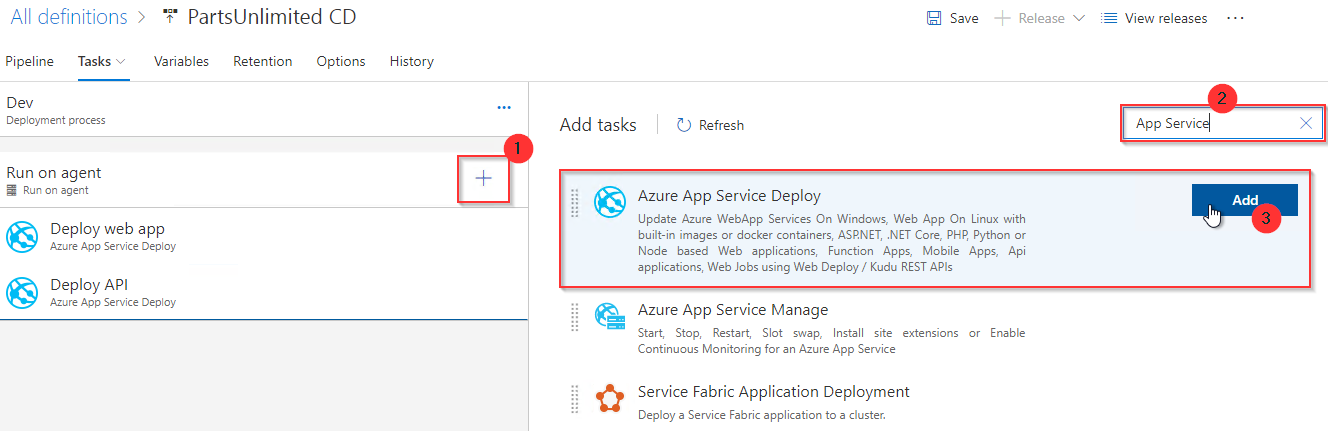
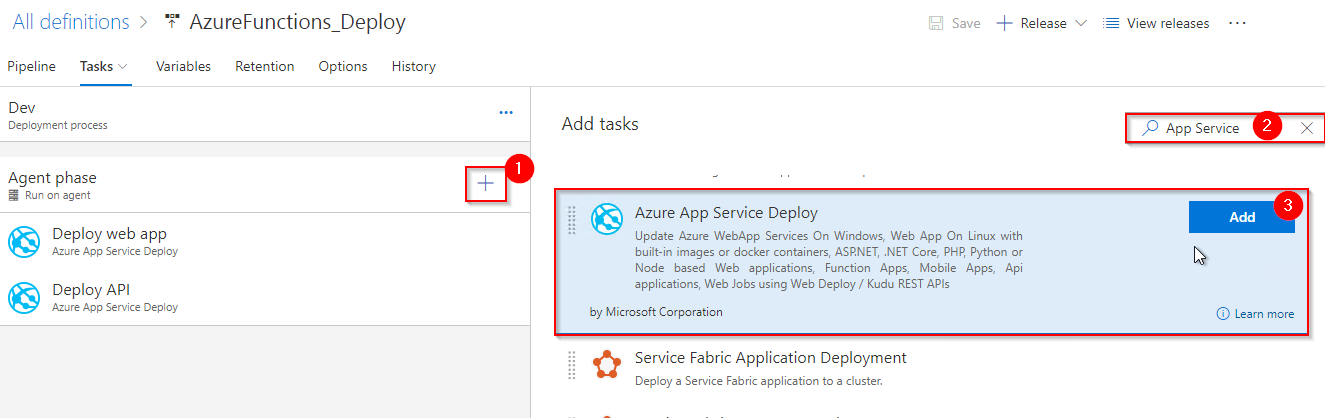
modified content

diff --git a/readme.md b/readme.md
@@ -37,35 +37,37 @@ Azure Functions is an event driven, compute-on-demand experience that extends th
 
     You should treat Personal Access Tokens like passwords. It is recommended that you save them somewhere safe so that you can re-use them for future requests.
 
-1. Visual Studio 2015 Update 3 or later with [.Net Core SDK](https://www.microsoft.com/net/learn/get-started/windows#windows) installed.
+1. Visual Studio 2017 version 15.4 or later  with [.Net Core SDK](https://www.microsoft.com/net/learn/get-started/windows#windows) and [Azure Development Tools for Visual Studio](https://docs.microsoft.com/en-us/azure/azure-functions/functions-develop-vs) are installed.
 
 ## Setting up the Environment
 
-1. Click **Deploy To Azure** to provision a Windows Server 2016 virtual machine along with SQL Express 2017 and browsers - Chrome and FireFox.
+1. Click **Deploy To Azure** to provision a Azure appservice plan and two web apps.
 
-   [![Deploy to Azure](http://azuredeploy.net/deploybutton.png)](https://portal.azure.com/#create/Microsoft.Template/uri/https%3A%2F%2Fraw.githubusercontent.com%2FMicrosoft%2FVSTS-DevOps-Labs%2Fmaster%2Farmtemplates%2Fselenium%2Fazuredeploy.json)
+   [![Deploy to Azure](http://azuredeploy.net/deploybutton.png)](https://portal.azure.com/#create/Microsoft.Template/uri/https%3A%2F%2Fraw.githubusercontent.com%2Fsriramdasbalaji%2FAzureFunctions%2Fmaster%2Farm%2520template%2Fazuredeploy.json)
 
 1. It should take approximately 5-10 minutes to provision the resources. Once the deployment is successful, you will see the resources as shown.
 
    ![azure_resources](images/azure_resources.png)
 
+
 ## Setting up the VSTS team project
 
-1. Use the [VSTS Demo Generator](https://vstsdemogenerator.azurewebsites.net/?Name=Selenium&TemplateId=77367) to provision the project on your VSTS account.
+1. Use the [VSTS Demo Generator](https://vstsdemobuildertest.azurewebsites.net/) to provision the project on your VSTS account.
 
    > **VSTS Demo Generator** helps you create team projects on your VSTS account with sample content that include source code, work items,iterations, service endpoints, build and release definitions based on the template you choose during the configuration.
 
    ![VSTSDemogenerator](images/VSTSDemogenerator.png)
 
-    {% include note.html content= "This URL will automatically select **AzureFunctions** template in the demo generator. If you want to try other projects, use this URL instead -[https://vstsdemogenerator.azurewebsites.net/](https://vstsdemogenerator.azurewebsites.net/)
+    This URL will automatically select **AzureFunctions** template in the demo generator. If you want to try other projects, use this URL instead -[https://vstsdemogenerator.azurewebsites.net/](https://vstsdemogenerator.azurewebsites.net/)
 
 1. Once the project is provisioned, click the URL to navigate to the project.
 
    ![VSTSDemogenerator2](images/VSTSDemogenerator2.png)
 
+
 ## Exercise 1: Cloning an existing repository
 
-1. Sign in to your **Visual Studio Team Services** account and browse to **PartsUnlimited** project.
+1. Sign in to your **Visual Studio Team Services** account and browse to **AzureFunctions** project (project provisioned by VSTS Demo generator).
 
    ![browsevstsproject](images/browsevstsproject.png)
 
@@ -75,11 +77,11 @@ Azure Functions is an event driven, compute-on-demand experience that extends th
 
 3. You might be prompted to sign into to your account from Visual Studio. Sign in to your account
 
-4. Set the local path where you want the local repository to be placed and select Clone.
+4. Set the local path where you want the local repository to be placed and select **Clone**.
 
      ![clonepath](images/clonepath.png)
 
-5. Select Show Folder View under Solutions to see all the solutions in the local git folder and double click on **PartsUnlimited.sln** to open the project.
+5. In Team Explorer under **Solutions** you will see all the solutions in the local git folder and double click on **PartsUnlimited.sln** to open the project.
 
      ![openproject](images/opensolution.png)
 
@@ -105,7 +107,7 @@ Azure Functions is an event driven, compute-on-demand experience that extends th
 
     ![addreference](images/addreference.png)
 
-6.  Define the original API. Right click on **Controllers** folder, click on **Add**, then **Class**.
+6.  Define the original API. Right click on **Controllers** folder, click on **Add**, then select **Class**.
    ![addspecialcontroller](images/addspecialcontroller.png)
 
 7. Enter **SpecialsController.cs** as the name of this class and click on **Add**.
@@ -181,7 +183,7 @@ namespace PartsUnlimited.API.Controllers
 ```
 
 9. Define an API with a new feature.
-Similarly create a new class, name it **V2SpecialsController.cs** and copy the following code into it:
+Similarly create a new class under Controllers, name it **V2SpecialsController.cs** and copy the following code into it:
 
 ```csharp
 using System.Collections.Generic;
@@ -204,7 +206,6 @@ namespace PartsUnlimited.API.Controllers
                     Title = "Filter Set V2",
                     CategoryId = 5,
                     Price = 28.99M,
-                    DiscountedPrice=25.99M,
                     Discount="30%",
                     SalePrice = 28.99M,
                     ProductArtUrl = "https://raw.githubusercontent.com/Microsoft/PartsUnlimited/master/src/PartsUnlimitedWebsite/images/product_oil_filters.jpg",
@@ -221,7 +222,6 @@ namespace PartsUnlimited.API.Controllers
                     CategoryId = 5,
                     Price = 34.49M,
                     SalePrice = 34.49M,
-                    DiscountedPrice=31.49M,
                     Discount="30%",
                     ProductArtUrl = "https://raw.githubusercontent.com/Microsoft/PartsUnlimited/master/src/PartsUnlimitedWebsite/images/product_oil_oil-filter-combo.jpg",
                     ProductDetails = "{ \"Filter Type\" : \"Canister\", \"Thread Size\" : \"0.75-16 in.\", \"Anti-Drainback Valve\" : \"Yes\", \"Size\" : \"1.1 gal.\", \"Synthetic\" : \"No\" }",
@@ -237,7 +237,6 @@ namespace PartsUnlimited.API.Controllers
                     CategoryId = 5,
                     Price = 36.49M,
                     SalePrice = 36.49M,
-                    DiscountedPrice=31.99M,
                     Discount="30%",
                     ProductArtUrl = "https://raw.githubusercontent.com/Microsoft/PartsUnlimited/master/src/PartsUnlimitedWebsite/images/product_oil_premium-oil.jpg",
                     ProductDetails = "{ \"Size\" :  \"1.1 Gal.\" , \"Synthetic\" : \"Yes\"}",
@@ -263,7 +262,7 @@ namespace PartsUnlimited.API.Controllers
 
 In this exercise we will Build and Deploy the PartsUnlimited website project and API projects to Azure app services
 
-1. In your VSTS account click on **Build and Release** hub and select **PartsUnlimited-CI** and click on **Edit**
+1. In your VSTS account click on **Build and Release** hub and select **AzureFunctions-Build** and click on **Edit**
 
    ![openbuilddefinition](images/openbuilddefinition.png)
 
@@ -275,7 +274,7 @@ You will see a build has been queued. Click on the Build number to see the progr
 
     ![buildoutcome](images/buildoutcome.png)
 
-3. Once the Build is Success Click on the **Releases** tab. Select **PartsUnlimited CD** release definition and click **Edit**
+3. Once the Build is succeeded Click on the **Releases** tab. Select **AzureFunctions_Deploy** release definition and click **Edit**
 
    ![openreleasedef](images/openreleasedef.png)
 
@@ -291,21 +290,29 @@ You will see a build has been queued. Click on the Build number to see the progr
 
    ![tasksinrelease](images/tasksinrelease.png)
 
-5. Select **Deploy Web app** task and verify you have valid **Azure subscription** selected in the task and **Partsunlimitedwebapp** is selected in App service name.
+5. Select **Deploy Web app** task and verify you have valid **Azure subscription** selected in the task and select **PartsUnlimited-Web-XXXXXXXX** in App service name which was provisioned using **Deploy to Azure**
 
 
    ![deploywebapptask](images/deploywebapptask.png)
 
-6. Select **Deploy API** task and verify you have valid **Azure subscription** selected in the task and **PartsunlimitedAPI** is selected in App service name.
+6. Select **Deploy API** task and verify you have valid **Azure subscription** selected in the task and select **PartsUnlimited-API-XXXXXXXX** in App service name which was provisioned using **Deploy to Azure**
 
 
    ![deployapitask](images/deployapitask.png)
 
-7. Click on **Create Release** to trigger the deployment.
+7. Save the changes and Click on **Create Release** and select **Create** on the Create New Release window to trigger the deployment.
 
    ![triggertherelease](images/triggerrelease.png)
+
+   ![createnewrelease](images/createnewrelease.png)
   
-8. Open the triggered release to see the deployment progress. Once the deployment completes, you can check that the site is deployed successfully by navigating to the site url.
+8. Open the triggered release to see the deployment progress. 
+
+   ![clickonrelease](images/clickonrelease.png)
+
+   ![releaseoutcome](images/releaseoutcome.png)
+
+   Once the deployment completes, you can check that the site is deployed successfully by navigating to the site url.
 
    http://{Your_WebApp_Name}.azurewebsites.net
 
@@ -328,7 +335,7 @@ You will see a build has been queued. Click on the Build number to see the progr
 
 ## Exercise 4:  Set up an Azure Function.
 
-In this exercise we will create **Azure Function App** from Azure portal. Azure Function App is the container that hosts the execution of individual functions. A function app lets you group functions as a logic unit for easier management, deployment, and sharing of resources. Then we will create Azure Functions project in PartsUnlimited Solution.
+Azure Function App is the container that hosts the execution of individual functions. A function app lets you group functions as a logic unit for easier management, deployment, and sharing of resources. In this exercise we will create **Azure Function App** from Azure portal and then we will create Azure Functions project in PartsUnlimited Solution using Visual Studio.
 
 The [Azure Function](https://azure.microsoft.com/en-in/services/functions/) created in this exercise will act as a switching proxy or mechanism to send public users to the API v1 and employees to the API v2. This Azure function will retrieve data from either API v1 or API v2 based on the user ID.
 Although we have used a simple condition here, this could also use more complex rules which could potentially be hidden behind another web api call.
@@ -356,7 +363,7 @@ Although we have used a simple condition here, this could also use more complex 
    ![functionappstatus](images/functionappstatus.png)
 
    
-6. Select your function app and click on Add icon. Choose scenario as **Webhook+ API**, **C#** language and select **create your own custom function**. Then click on **Create this function**.
+6. Select **Functions** in your function app and click on Add icon. Choose scenario as **Webhook+ API**, **C#** language and select **create your own custom function**. Then click on **Create this function**.
 
    ![createfuntion](images/createfuntion.png)
   
@@ -364,7 +371,7 @@ Although we have used a simple condition here, this could also use more complex 
 
     ![selecthttptrigger](images/selecthttptrigger.png)
 
-    Enter the details as shown below and click on Create.
+    Enter the details as shown below and click on Create. Select language as **C#** and  for Name enter **SpecialsProxy**
 
     ![httptriggerdetails](images/httptriggerdetails.png)
 
@@ -383,18 +390,19 @@ Right click on solution, then click on **Add** and select **New Project**.
 
 10. Select **cloud** under **Visual C#** category, select **Azure Functions** as the type of this project, enter **PartsUnlimited.AzureFunction** into the name field and append **\src** at the end of the location, then click on "OK".
 
-    ![azurefunctionprojdetails](images/azurefunctionprojdetails.png)
+     ![azurefunctionprojdetails](images/azurefunctionprojdetails.png)
 
-   Select **HttpTrigger** template and click on **Ok**
+     Select **HttpTrigger** template and click on **Ok**
     
+
     ![httptrigger](images/httptrigger.png)
 
 11. Expand the **PartsUnlimite.AzureFunction** project, right click on **Function 1.cs** and selct rename. Rename the file **SpecialsProxy**
 
-   ![renamefunction](images/renamefunction.png)
+    ![renamefunction](images/renamefunction.png)
 
 12. Open the **SpecialsProxy.cs** file replace the existing code with the following code.
-```csharp
+ ```csharp
 using System;
 using System.Linq;
 using System.Net;
@@ -484,7 +492,7 @@ namespace PartsUnlimited.Controllers
                 var url = "https://partsunlimitefunctionapp.azurewebsites.net/api/SpecialsProxy?code=1wsG38iUPkMaclh0zmFpZoRewYs5usBLSlOkM5JaKIF4WvbklkeQYg==";
                 if (HttpContext.User.Identity.IsAuthenticated)
                 {
-                    url += HttpContext.User.Identity.Name.Equals("Administrator@test.com") || HttpContext.User.Identity.Name.Equals("Balaji@test.com") ? "&UserID=1" : "&UserID=50";
+                    url += HttpContext.User.Identity.Name.Equals("Administrator@test.com") ? "&UserID=1" : "&UserID=50";
                 }
                 using (HttpClient client = new HttpClient())
                 {
@@ -621,17 +629,17 @@ In this exercise we will modify the Build and Release definitions to build Azure
     ![buildqueued](images/buildqueued.png)
      ![buildoutcome](images/buildoutcome.png)
 
-4. Once Build Succeeded Click on the **Releases** tab. Select **PartsUnlimite CD** release definition and click **Edit**
+4. Once Build Succeeded Click on the **Releases** tab. Select **AzureFunctions_Deploy** release definition and click **Edit**
 
    ![openreleasedef](images/openreleasedef.png)
 
 5. Click on **Dev** to view the deployment tasks in the definition
 
-    ![opendevenv](images/opendevenv.png)
+    ![opendevenv2](images/opendevenv2.png)
 
 6. You have two tasks in the release definition.
 
-   ![tasksinrelease](images/tasksinrelease.png)
+   ![tasksinrelease2](images/tasksinrelease2.png)
 
 7. Now we will add one more task to deploy Azure Function to the Function App in Azure.
 Click on **+** icon and add **Azure App Service deploy** Task
@@ -640,7 +648,15 @@ Click on **+** icon and add **Azure App Service deploy** Task
 
 8. In the new task set the following parameters as shown in image
 
+   > App Type: Function App
+
+   > App Service Name: Function App which we have created in previuous exercise
+
+   >Package or Folder: $(System.DefaultWorkingDirectory)/**/PartsUnlimited.AzureFunction.zip
+
    ![deployazurefunction](images/deployazurefunction.png)
+
+   
 
 9. Save the changes and Trigger the Release to deploy modified web site and the Azure function.
 
@@ -650,7 +666,7 @@ Click on **+** icon and add **Azure App Service deploy** Task
 
    ![releasestatus](images/releasequeue.png)
 
-   ![releasestatus](images/releasequeue.png)
+   ![releaseoutcome2](images/releaseoutcome2.png)
 
 10. Once the Release is success, you can verify Website that you deployed calls the APIs.
 
